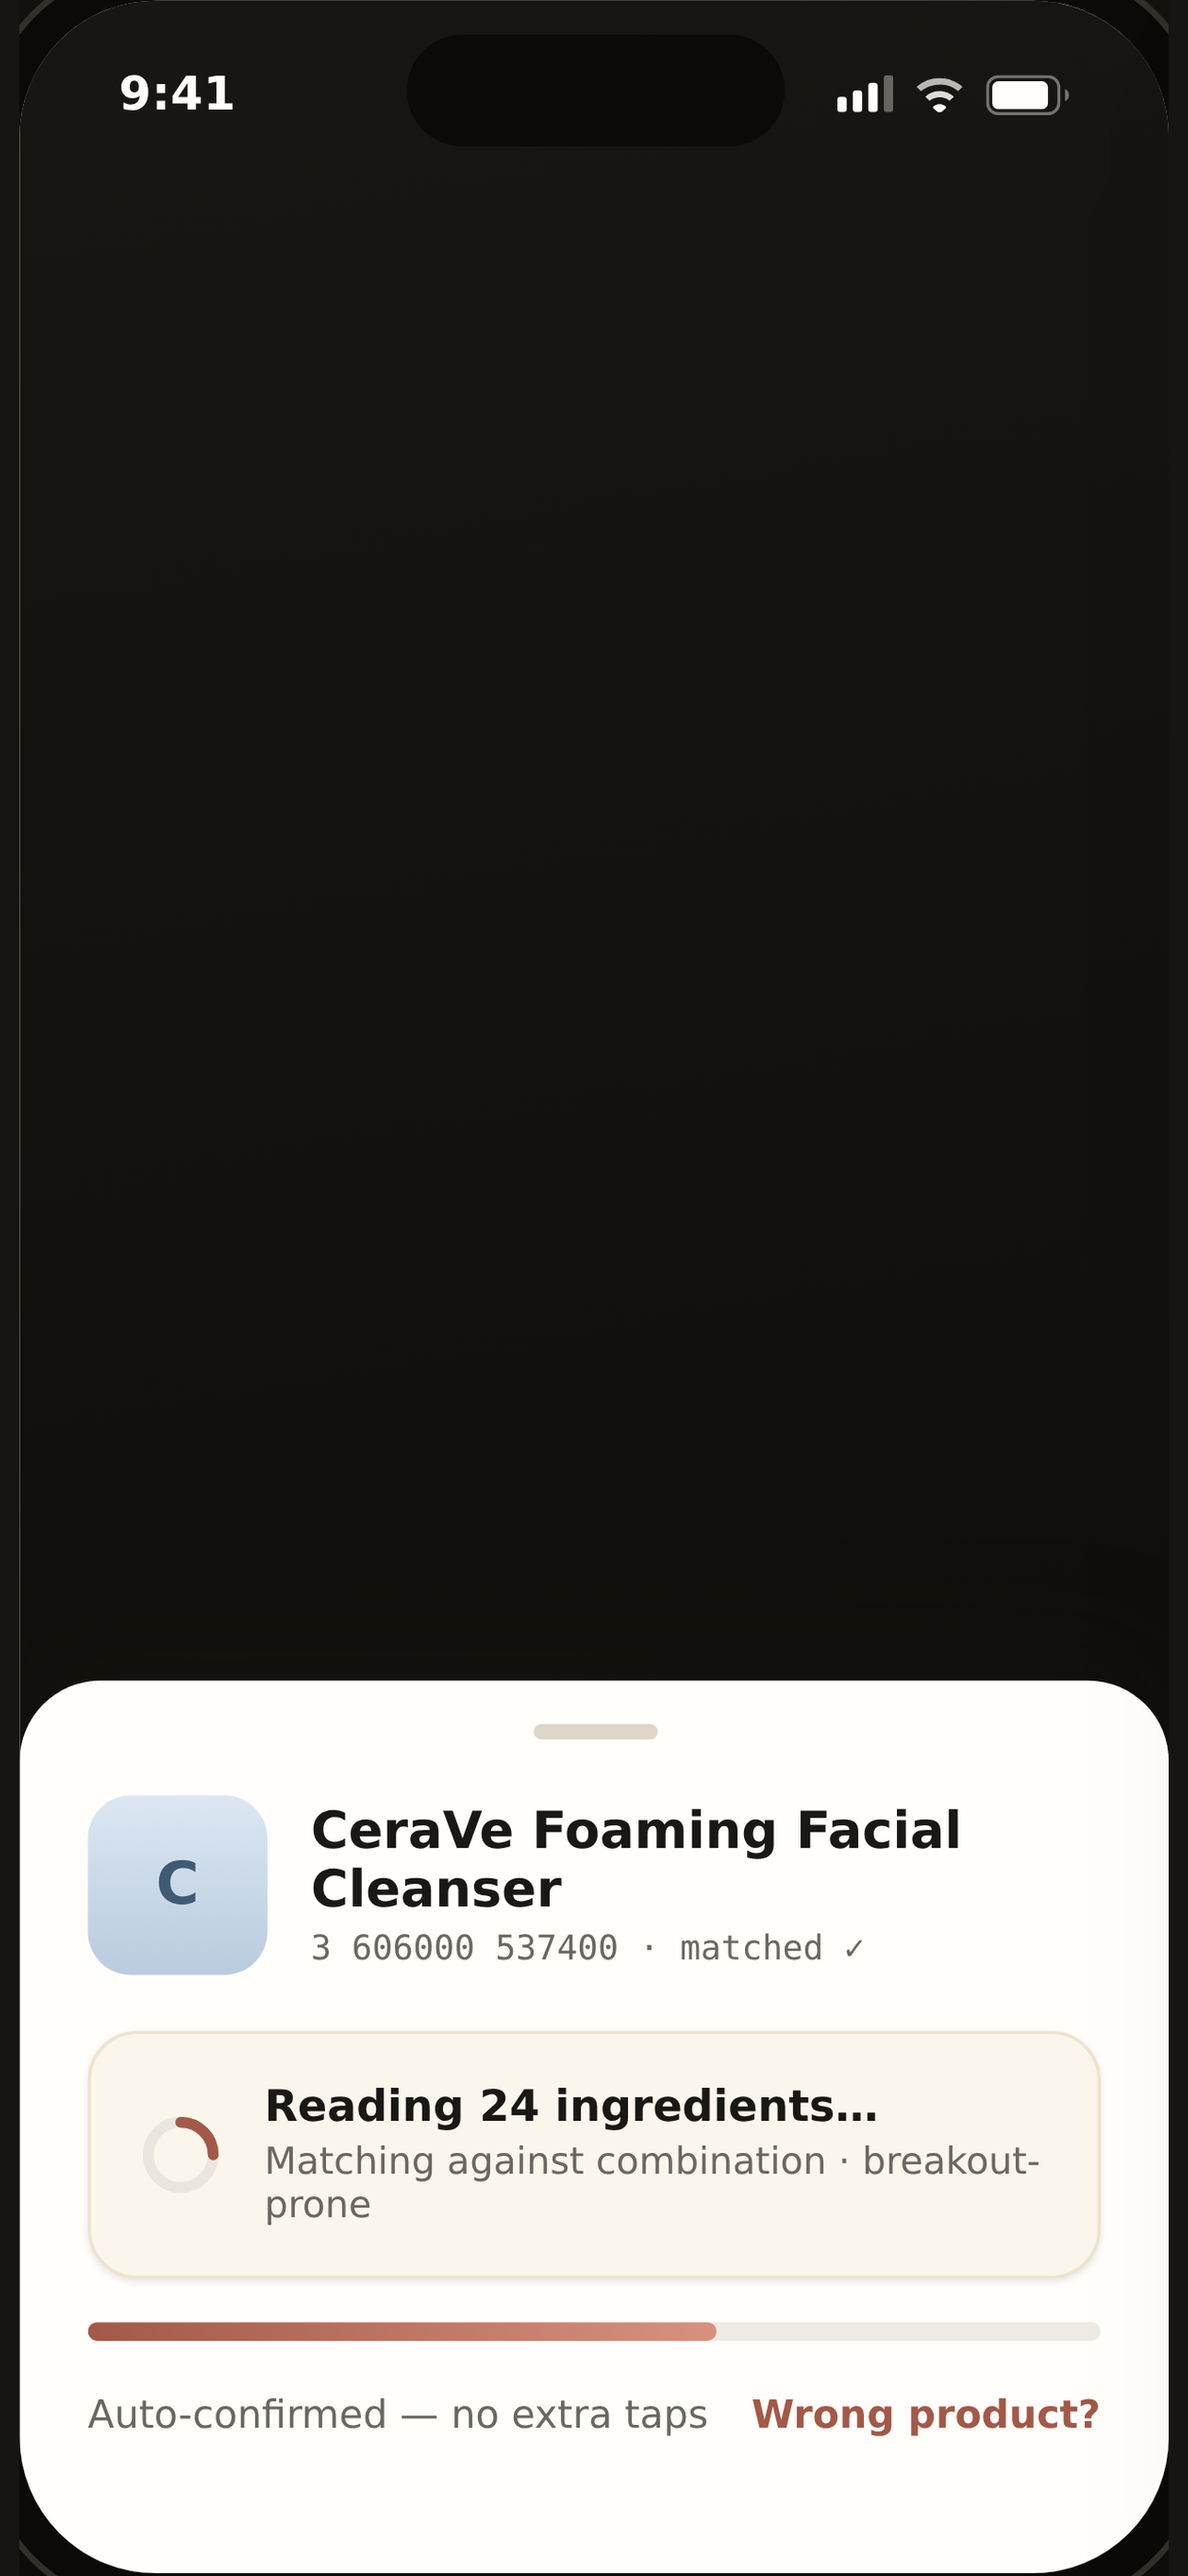
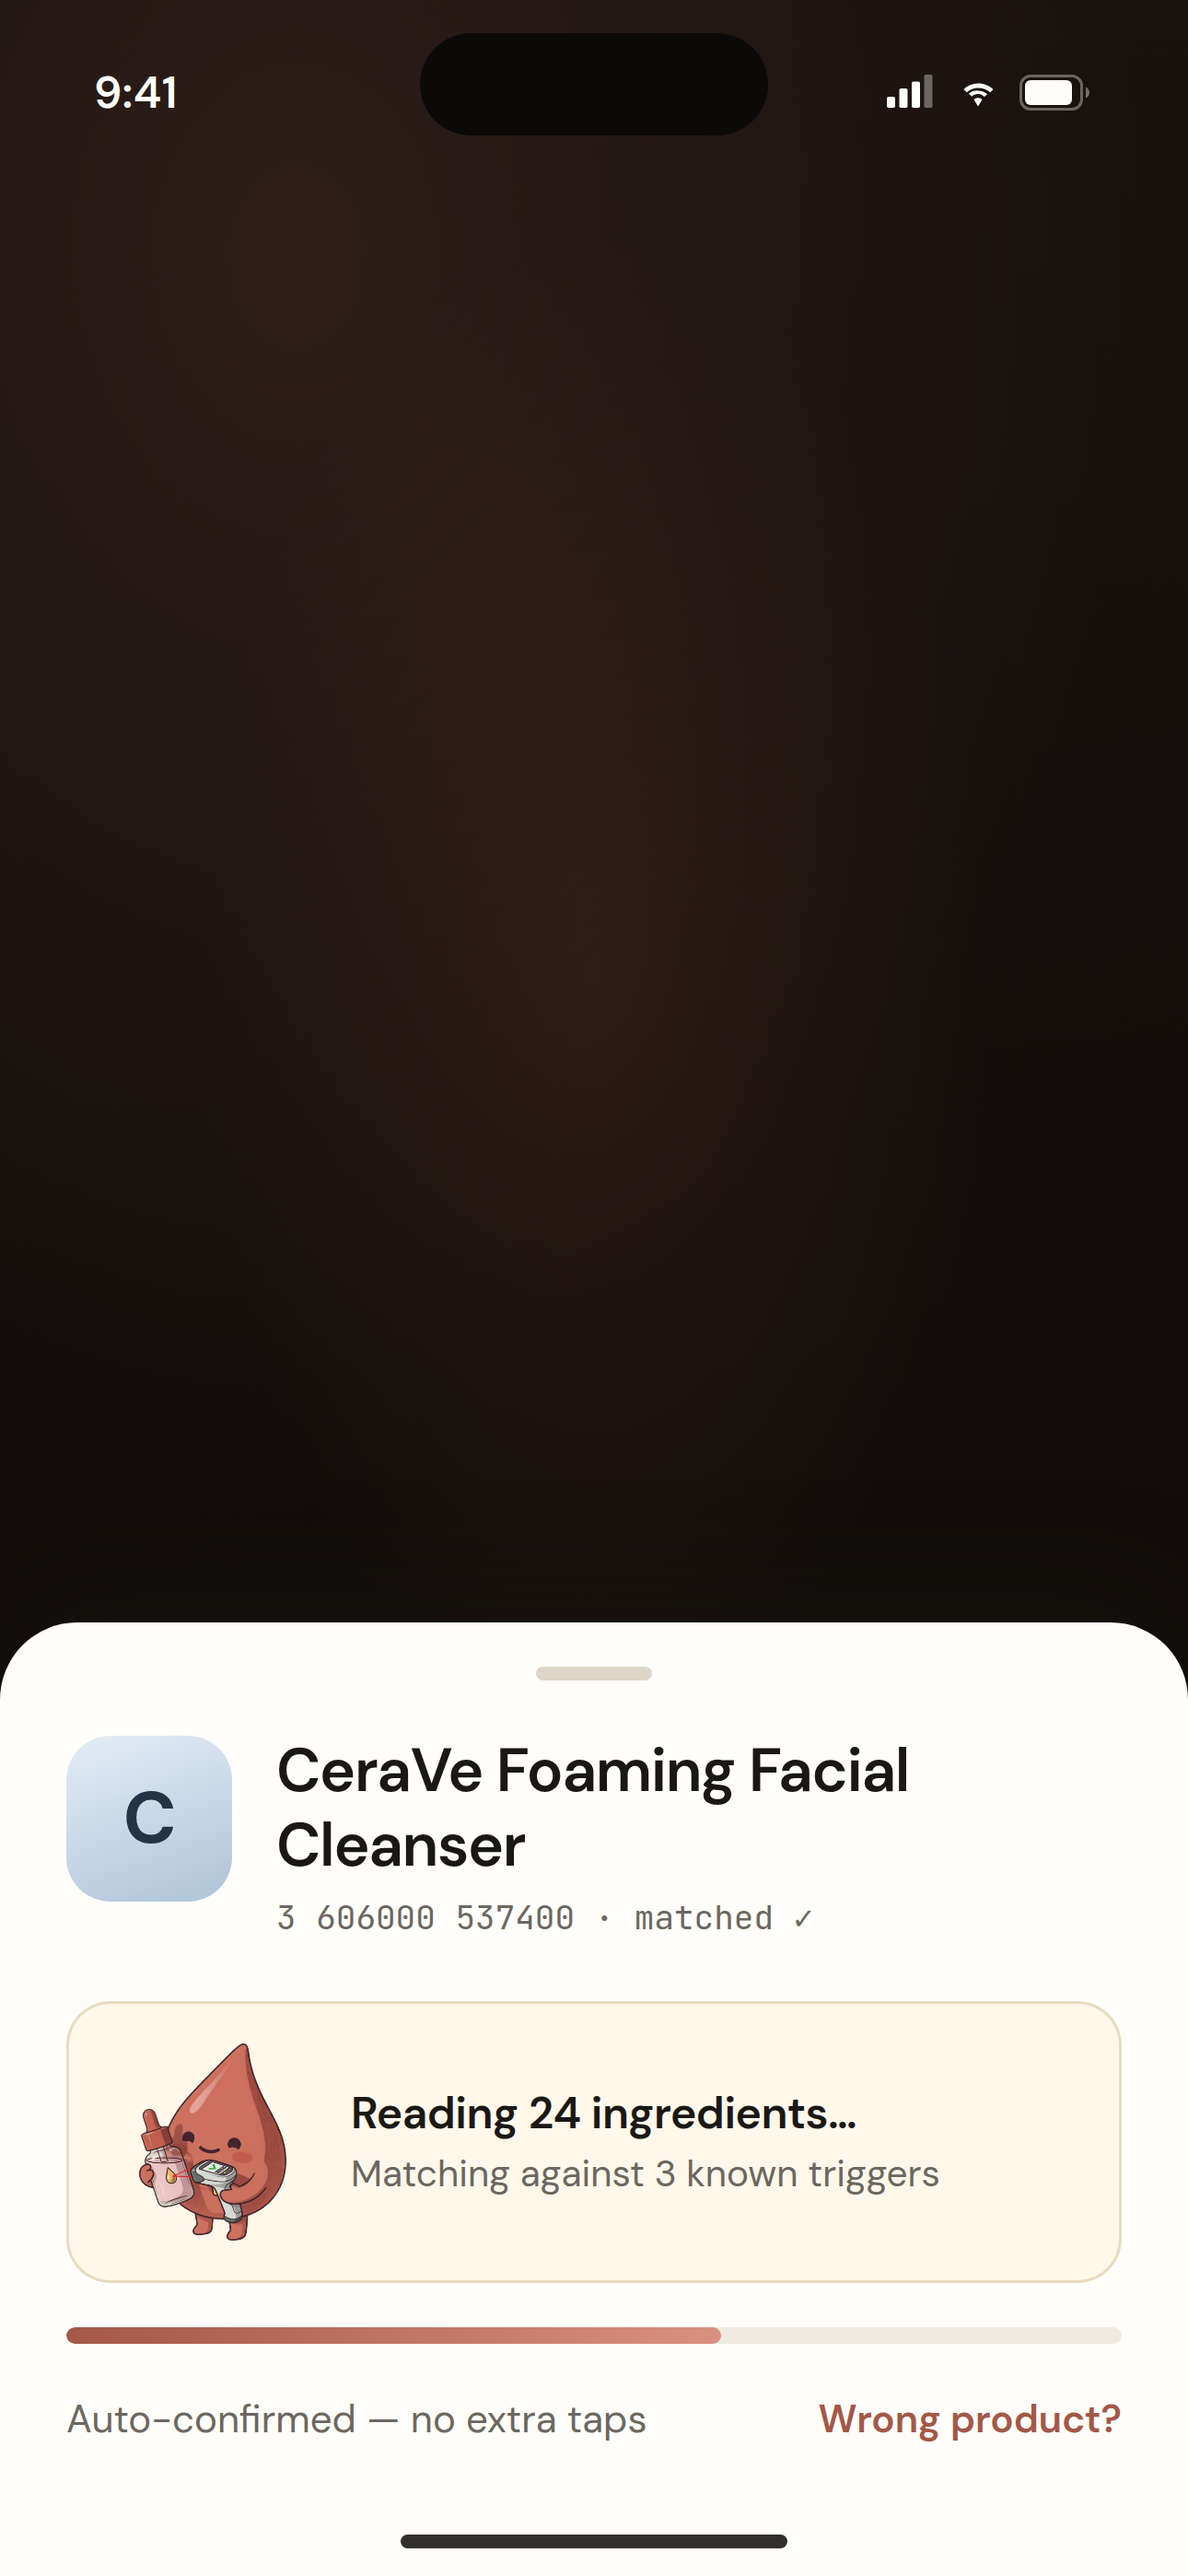
Add App Store fetch screenshot (analyzing sheet)
Regenerate the product-recognized App Store still to match FoundSheet:
mascot scan pose, "Matching against N known triggers", and exact ASC
sizes (1290×2796 + 1179×2556). Source is fetch.html; shoot.mjs renders it.

diff --git a/designs/app-store-screenshots/fetch.html b/designs/app-store-screenshots/fetch.html
@@ -1,0 +1,116 @@
+<!DOCTYPE html>
+<html lang="en">
+<head>
+<meta charset="UTF-8">
+<title>Skintel — App Store · fetch / analyzing</title>
+<link rel="preconnect" href="https://fonts.googleapis.com">
+<link rel="preconnect" href="https://fonts.gstatic.com" crossorigin>
+<link href="https://fonts.googleapis.com/css2?family=DM+Sans:opsz,wght@9..40,400;9..40,500;9..40,600;9..40,700&family=JetBrains+Mono:wght@400;500;600&display=swap" rel="stylesheet">
+<style>
+:root{
+  --bg:#F4EDE0; --cream:#FFFEFA; --primary:#A35848;
+  --ink:#1A1814; --muted:#6B6760; --line:#EAE6DF;
+  --caution-bg:#FFF4E0; --caution-fg:#8B6914;
+  --sans:"DM Sans",ui-sans-serif,system-ui,sans-serif;
+  --mono:"JetBrains Mono",ui-monospace,monospace;
+}
+*{margin:0;padding:0;box-sizing:border-box}
+html,body{width:100%;height:100%;overflow:hidden;background:#0B0A08}
+body{font-family:var(--sans);color:var(--ink);-webkit-font-smoothing:antialiased}
+
+.screen{
+  position:relative;width:100vw;height:100vh;overflow:hidden;
+  background:
+    radial-gradient(46% 40% at 50% 38%,rgba(163,88,72,.28) 0%,rgba(163,88,72,0) 72%),
+    radial-gradient(130% 80% at 25% 10%,#4A2E28 0%,rgba(74,46,40,0) 55%),
+    linear-gradient(170deg,#241713 0%,#150D0A 80%);
+}
+.island{position:absolute;top:12px;left:50%;transform:translateX(-50%);width:126px;height:37px;background:#0B0A08;border-radius:20px;z-index:60}
+.sbar{position:absolute;top:0;left:0;right:0;height:58px;display:flex;align-items:center;justify-content:space-between;padding:8px 34px 0;z-index:55;color:#FFFEFA;pointer-events:none}
+.sbar .time{font-size:16px;font-weight:600;letter-spacing:.01em}
+.sbar .sicons{display:flex;align-items:center;gap:7px}
+.scrim{position:absolute;inset:0;background:rgba(11,10,8,.45)}
+
+.sheet{
+  position:absolute;left:0;right:0;bottom:0;
+  background:var(--cream);
+  border-radius:28px 28px 0 0;
+  box-shadow:0 -14px 36px rgba(26,24,20,.32);
+  padding:12px 24px 48px;
+}
+.handle{width:42px;height:5px;border-radius:3px;background:#DDD6C9;margin:4px auto 20px}
+
+.header{display:flex;align-items:flex-start;gap:16px}
+.mark{
+  width:60px;height:60px;border-radius:16px;flex:none;
+  background:linear-gradient(160deg,#E4EDF6,#AEC3D8);
+  display:flex;align-items:center;justify-content:center;
+  font-size:26px;font-weight:700;color:#243447;letter-spacing:-.02em;
+}
+.name{font-size:22px;font-weight:600;line-height:1.2;letter-spacing:-.02em;color:var(--ink)}
+.sub{font-family:var(--mono);font-size:12px;color:var(--muted);margin-top:5px}
+
+.progress{
+  margin-top:22px;padding:14px 16px;
+  background:rgba(255,244,224,.6);
+  border:1px solid rgba(139,105,20,.2);
+  border-radius:16px;
+  display:flex;align-items:center;gap:14px;
+}
+.mascot{width:72px;height:72px;object-fit:contain;flex:none}
+.ptitle{font-size:16px;font-weight:600;color:var(--ink);letter-spacing:-.01em}
+.psub{font-size:13.5px;color:var(--muted);margin-top:3px;line-height:1.35}
+
+.bar{margin-top:16px;height:6px;border-radius:3px;background:#EFEAE2;overflow:hidden}
+.bar>i{display:block;width:62%;height:100%;border-radius:3px;background:linear-gradient(90deg,#A35848,#D9917F)}
+
+.foot{display:flex;justify-content:space-between;align-items:center;margin-top:18px;font-size:14px}
+.foot .muted{color:var(--muted)}
+.foot .link{color:var(--primary);font-weight:600}
+
+.homebar{position:absolute;left:50%;bottom:10px;transform:translateX(-50%);width:140px;height:5px;border-radius:3px;background:rgba(26,24,20,.9);z-index:70}
+</style>
+</head>
+<body>
+<div class="screen" id="shot">
+  <div class="island"></div>
+  <div class="sbar">
+    <span class="time">9:41</span>
+    <span class="sicons" aria-hidden="true">
+      <svg width="18" height="12" viewBox="0 0 18 12" fill="#FFFEFA"><rect x="0" y="8" width="3" height="4" rx="0.6"/><rect x="4.5" y="5" width="3" height="7" rx="0.6"/><rect x="9" y="2.5" width="3" height="9.5" rx="0.6"/><rect x="13.5" y="0" width="3" height="12" rx="0.6" opacity=".35"/></svg>
+      <svg width="16" height="12" viewBox="0 0 16 12" fill="#FFFEFA"><path d="M8 3.2c2.1 0 4 .8 5.5 2.1l-1.1 1.1A6.3 6.3 0 0 0 8 4.8c-1.6 0-3 .6-4.1 1.6L2.8 5.3A7.9 7.9 0 0 1 8 3.2zm0 2.6c1.3 0 2.5.5 3.4 1.3L10.3 8A3.4 3.4 0 0 0 8 7c-.9 0-1.7.3-2.3.9L4.6 6.8A5 5 0 0 1 8 5.8zm0 2.6c.6 0 1.1.2 1.5.6L8 11.5 6.5 9c.4-.4.9-.6 1.5-.6z"/></svg>
+      <svg width="27" height="13" viewBox="0 0 27 13"><rect x=".5" y=".5" width="22" height="12" rx="3.5" stroke="#FFFEFA" stroke-opacity=".35" fill="none"/><rect x="2" y="2" width="17" height="9" rx="2" fill="#FFFEFA"/><path d="M24 4.5v4a2.2 2.2 0 0 0 0-4z" fill="#FFFEFA" opacity=".4"/></svg>
+    </span>
+  </div>
+  <div class="scrim"></div>
+
+  <div class="sheet">
+    <div class="handle"></div>
+    <div class="header">
+      <div class="mark">C</div>
+      <div>
+        <div class="name">CeraVe Foaming Facial Cleanser</div>
+        <div class="sub">3 606000 537400 · matched ✓</div>
+      </div>
+    </div>
+
+    <div class="progress">
+      <img class="mascot" src="../../ios/Skintel/Skintel/Resources/Assets.xcassets/Mascot.imageset/Mascot.png" alt="">
+      <div>
+        <div class="ptitle">Reading 24 ingredients…</div>
+        <div class="psub">Matching against 3 known triggers</div>
+      </div>
+    </div>
+
+    <div class="bar"><i></i></div>
+
+    <div class="foot">
+      <span class="muted">Auto-confirmed — no extra taps</span>
+      <span class="link">Wrong product?</span>
+    </div>
+  </div>
+
+  <div class="homebar"></div>
+</div>
+</body>
+</html>

diff --git a/designs/skintel-ios-designs.html b/designs/skintel-ios-designs.html
@@ -803,11 +803,11 @@ body.freeze .anim-ring{animation-delay:-1.1s;animation-play-state:paused}
               <div class="mono" style="font-size:11px;color:var(--muted);margin-top:3px">3 606000 537400 · matched ✓</div>
             </div>
           </div>
-          <div class="card" style="margin-top:18px;padding:16px;display:flex;align-items:center;gap:14px;background:#FBF6EC;border-color:#EDE3CE">
-            <svg width="26" height="26" viewBox="0 0 26 26" fill="none"><circle cx="13" cy="13" r="10.5" stroke="#EAE6DF" stroke-width="3.5"/><path d="M13 2.5 a10.5 10.5 0 0 1 10.5 10.5" stroke="#A35848" stroke-width="3.5" stroke-linecap="round"/></svg>
+          <div class="card" style="margin-top:18px;padding:14px 16px;display:flex;align-items:center;gap:14px;background:rgba(255,244,224,.6);border-color:rgba(139,105,20,.2)">
+            <img src="../ios/Skintel/Skintel/Resources/Assets.xcassets/Mascot.imageset/Mascot.png" width="56" height="56" alt="" style="object-fit:contain;flex:none">
             <div style="flex:1">
               <div style="font-weight:600;font-size:14px;color:var(--ink)">Reading 24 ingredients…</div>
-              <div style="font-size:12px;color:var(--muted);margin-top:2px">Matching against combination · breakout-prone</div>
+              <div style="font-size:12px;color:var(--muted);margin-top:2px">Matching against 3 known triggers</div>
             </div>
           </div>
           <div style="margin-top:14px;height:6px;border-radius:3px;background:#EFEAE2;overflow:hidden"><i style="display:block;width:62%;height:100%;border-radius:3px;background:linear-gradient(90deg,#A35848,#D9917F)"></i></div>

diff --git a/designs/README.md b/designs/README.md
@@ -86,3 +86,16 @@ Previews are shot from the HTML with Playwright (`deviceScaleFactor: 2`).
 Install Instrument Serif, DM Sans and JetBrains Mono locally first so headless
 Chromium doesn't fall back to system fonts, then screenshot each `#s-*` section
 of `skintel-ios-designs.html`.
+
+## App Store screenshots
+
+Marketing stills for App Store Connect live in [`app-store-screenshots/`](app-store-screenshots/).
+They are design-faithful composites (not simulator captures). The analyzing /
+“fetch” frame (`03-product-recognized.png`) is rendered from `fetch.html`:
+
+```bash
+npm install   # needs playwright
+node designs/app-store-screenshots/shoot.mjs
+```
+
+Outputs `1290×2796` (6.7") and `1179×2556` (`03-product-recognized-6.1.png`).
